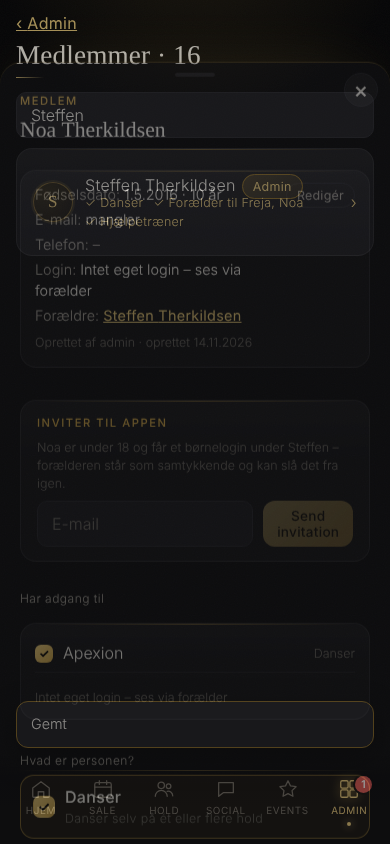
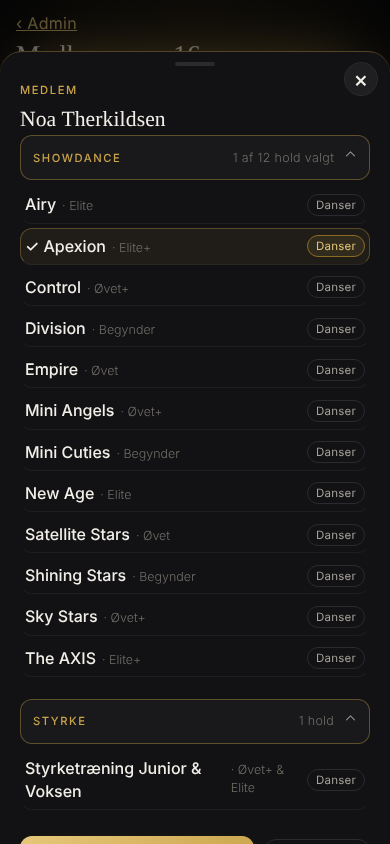
Fix infinite recursion in person update policies (0051); member team list starts fully folded
Claude-Session: https://claude.ai/code/session_01GGpukzb1UrCDBdg1Js3mqC

diff --git a/src/domain/llds/admin/MemberSheet.tsx b/src/domain/llds/admin/MemberSheet.tsx
@@ -191,7 +191,7 @@ export function MemberSheet({ member: p, all, teams, onClose, onChanged, onOpen,
       {anyRole && <div className="field"><span>{t("admin.teamsHead")}</span>
         <p className="tiny muted" style={{ margin: "0 0 6px" }}>{(dancer || staff) ? t("admin.teamsHint") : t("admin.teamsParentOnly")}</p>
         <div className="teamlist" data-testid="teamlist">
-          {groups.map(([style, list]) => { const onCount = list.filter((tm) => (dancer && has(tm.id, "dancer")) || (staff && (has(tm.id, "trainer") || has(tm.id, "assistant"))) || (parent && kidsOn(tm.id).length > 0)).length; const isOpen = openStyles[style] ?? onCount > 0; return <div key={style} className={"tgroup" + (isOpen ? " open" : "")}>
+          {groups.map(([style, list]) => { const onCount = list.filter((tm) => (dancer && has(tm.id, "dancer")) || (staff && (has(tm.id, "trainer") || has(tm.id, "assistant"))) || (parent && kidsOn(tm.id).length > 0)).length; const isOpen = openStyles[style] ?? false;   // all styles start folded – the summary says how many are ticked return <div key={style} className={"tgroup" + (isOpen ? " open" : "")}>
             <button type="button" className="tgroup-head" onClick={() => setOpenStyles((o) => ({ ...o, [style]: !isOpen }))} aria-expanded={isOpen} data-testid="tgroup-head"><span className="eyebrow">{style}</span><span className="tiny">{onCount ? t("admin.styleOn", { n: onCount, total: list.length }) : t("admin.styleTeams", { n: list.length })}</span><span className="caret">{isOpen ? "⌃" : "⌄"}</span></button>
             {isOpen && list.map((tm) => { const kOn = parent ? kidsOn(tm.id) : []; const on = (dancer && has(tm.id, "dancer")) || (staff && (has(tm.id, "trainer") || has(tm.id, "assistant"))) || kOn.length > 0; return (
               <div key={tm.id} className={"trow" + (on ? " on" : "")} data-team={tm.name}>
